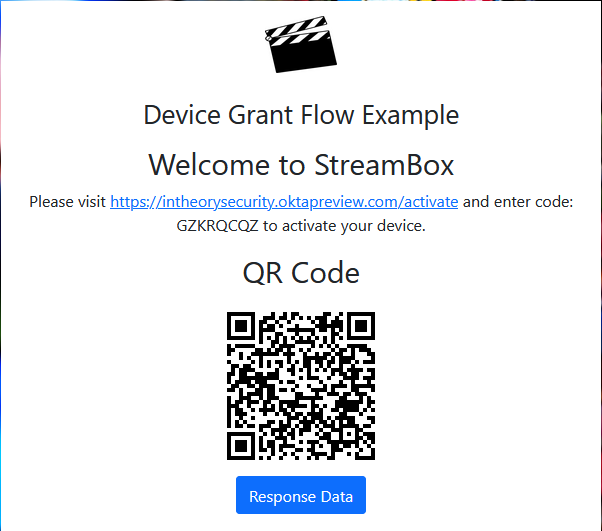
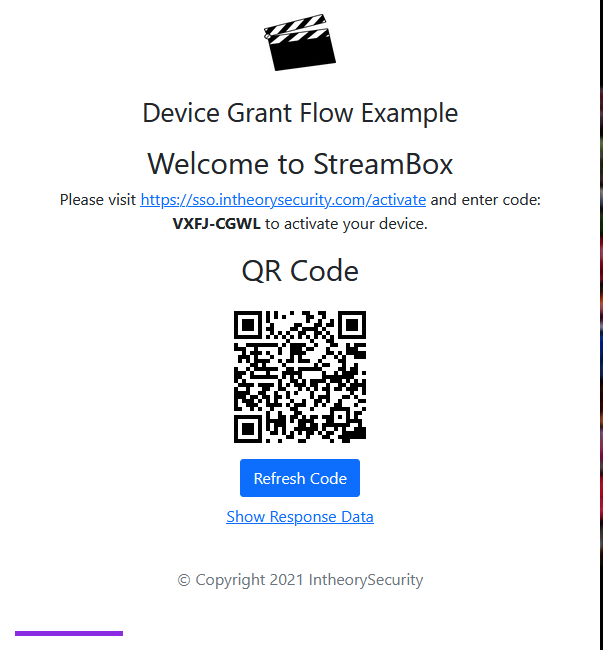
Modify progress bar feature

diff --git a/server.js b/server.js
@@ -68,20 +68,7 @@ app.get('/', (req, res) => {
             }       
         })
 
-        QRCode.toDataURL(req.cookies.resdata.verification_uri_complete, function (err, url) {
-            if (err) return console.log("error occured")
-            if(process.env.DEBUG === 'true'){
-                console.log("***Okta Authorization Endpoint response***");
-                console.log("Response from Authorization Endpoint: ")
-                console.log(req.cookies.resdata);
-            }  
-            res.render('pages/index', {
-                jsonResData: JSON.stringify(req.cookies.resdata),
-                welcomeLine: 'Please visit <a href="' + req.cookies.resdata.verification_uri + '" target="_blank">' + req.cookies.resdata.verification_uri + '</a> and enter code: <b>' + req.cookies.resdata.user_code + '</b> to activate your device.',
-                qrCode: url,
-                Code: req.cookies.resdata.device_code
-            });
-        });
+        displayPage(req.cookies.resdata, res, false);
     }
     else {
         if(process.env.DEBUG === 'true'){
@@ -97,22 +84,7 @@ app.get('/', (req, res) => {
         //CALLING AUTHZ ENDPOINT
         axios.post(AUTHZ_ENDPOINT, qs.stringify(payload), { headers })
             .then(response => {
-                QRCode.toDataURL(response.data.verification_uri_complete, function (err, url) {
-                    if (err) return console.log("error occured")
-                    if(process.env.DEBUG === 'true'){
-                        console.log("***Okta Authorization Endpoint response***");
-                        console.log("Response from Authorization Endpoint: ")
-                        console.log(response.data);
-                    }  
-                    res.cookie("resdata", response.data, {'sameSite': 'strict'});
-                    res.render('pages/index', {
-                        jsonResData: JSON.stringify(response.data),
-                        welcomeLine: 'Please visit <a href="' + response.data.verification_uri + '" target="_blank">' + response.data.verification_uri + '</a> and enter code: <b>' + response.data.user_code + '</b> to activate your device.',
-                        qrCode: url,
-                        Code: response.data.device_code
-                    });
-                    res.end();
-                })
+                displayPage(response.data, res, true);
             })
             .catch(error => {
                 res.send(error.response.data);
@@ -139,22 +111,7 @@ app.post('/', (req, res) =>{
         //CALLING AUTHZ ENDPOINT
         axios.post(AUTHZ_ENDPOINT, qs.stringify(payload), { headers })
             .then(response => {
-                QRCode.toDataURL(response.data.verification_uri_complete, function (err, url) {
-                    if (err) return console.log("error occured")
-                    if(process.env.DEBUG === 'true'){
-                        console.log("***Okta Authorization Endpoint response***");
-                        console.log("Response from Authorization Endpoint: ")
-                        console.log(response.data);
-                    }  
-                    res.cookie("resdata", response.data, {'sameSite': 'strict'});
-                    res.render('pages/index', {
-                        jsonResData: JSON.stringify(response.data),
-                        welcomeLine: 'Please visit <a href="' + response.data.verification_uri + '" target="_blank">' + response.data.verification_uri + '</a> and enter code: ' + response.data.user_code + ' to activate your device.',
-                        qrCode: url,
-                        Code: response.data.device_code
-                    });
-                    res.end();
-                })
+                displayPage(response.data, res, true);
             })
             .catch(error => {
                 if(process.env.DEBUG === 'true'){
@@ -166,20 +123,7 @@ app.post('/', (req, res) =>{
     }
     else{
         //TODO
-        QRCode.toDataURL(req.cookies.resdata.verification_uri_complete, function (err, url) {
-            if (err) return console.log("error occured")
-            if(process.env.DEBUG === 'true'){
-                console.log("***Okta Authorization Endpoint response***");
-                console.log("Response from Authorization Endpoint: ")
-                console.log(req.cookies.resdata);
-            }  
-            res.render('pages/index', {
-                jsonResData: JSON.stringify(req.cookies.resdata),
-                welcomeLine: 'Please visit <a href="' + req.cookies.resdata.verification_uri + '" target="_blank">' + req.cookies.resdata.verification_uri + '</a> and enter code: ' + req.cookies.resdata.user_code + ' to activate your device.',
-                qrCode: url,
-                Code: req.cookies.resdata.device_code
-            });
-        });
+        displayPage(req.cookies.resdata, res, false);
     }
 })
 
@@ -273,3 +217,25 @@ app.get('/logout', (req, res) => {
 
 app.listen(8080);
 console.log('Server is listening on port 8080');
+
+function displayPage(oktaResponseData, res, addCookie){
+    QRCode.toDataURL(oktaResponseData.verification_uri_complete, function (err, url) {
+        if (err) return console.log("error occured")
+        if(process.env.DEBUG === 'true'){
+            console.log("***Okta Authorization Endpoint response***");
+            console.log("Response from Authorization Endpoint: ")
+            console.log(oktaResponseData);
+        } 
+        if(addCookie) {
+            res.cookie("resdata", oktaResponseData, {'sameSite': 'strict'});
+        }
+        var modifyString = oktaResponseData.user_code.substring(0, 4) + "-" + oktaResponseData.user_code.substring(4, oktaResponseData.user_code.length);
+        res.render('pages/index', {
+            jsonResData: JSON.stringify(oktaResponseData),
+            welcomeLine: 'Please visit <a href="' + oktaResponseData.verification_uri + '" target="_blank">' + oktaResponseData.verification_uri + '</a> and enter code: <br/> <b>' + modifyString + '</b> to activate your device.',
+            qrCode: url,
+            Code: oktaResponseData.device_code
+        });
+        res.end();
+    })
+}

diff --git a/release_notes/README.md b/release_notes/README.md
@@ -1,0 +1,7 @@
+# Release Notes
+## October 14, 2021
+
+## New Features
+* **Added Progress Bar** - Activate screen now displays a progress bar to let end-users know when the browser will check to see if the "Device" has been activated.
+
+* **Update CSS and HTML** - Clean up the text prosented at the activate screen.
